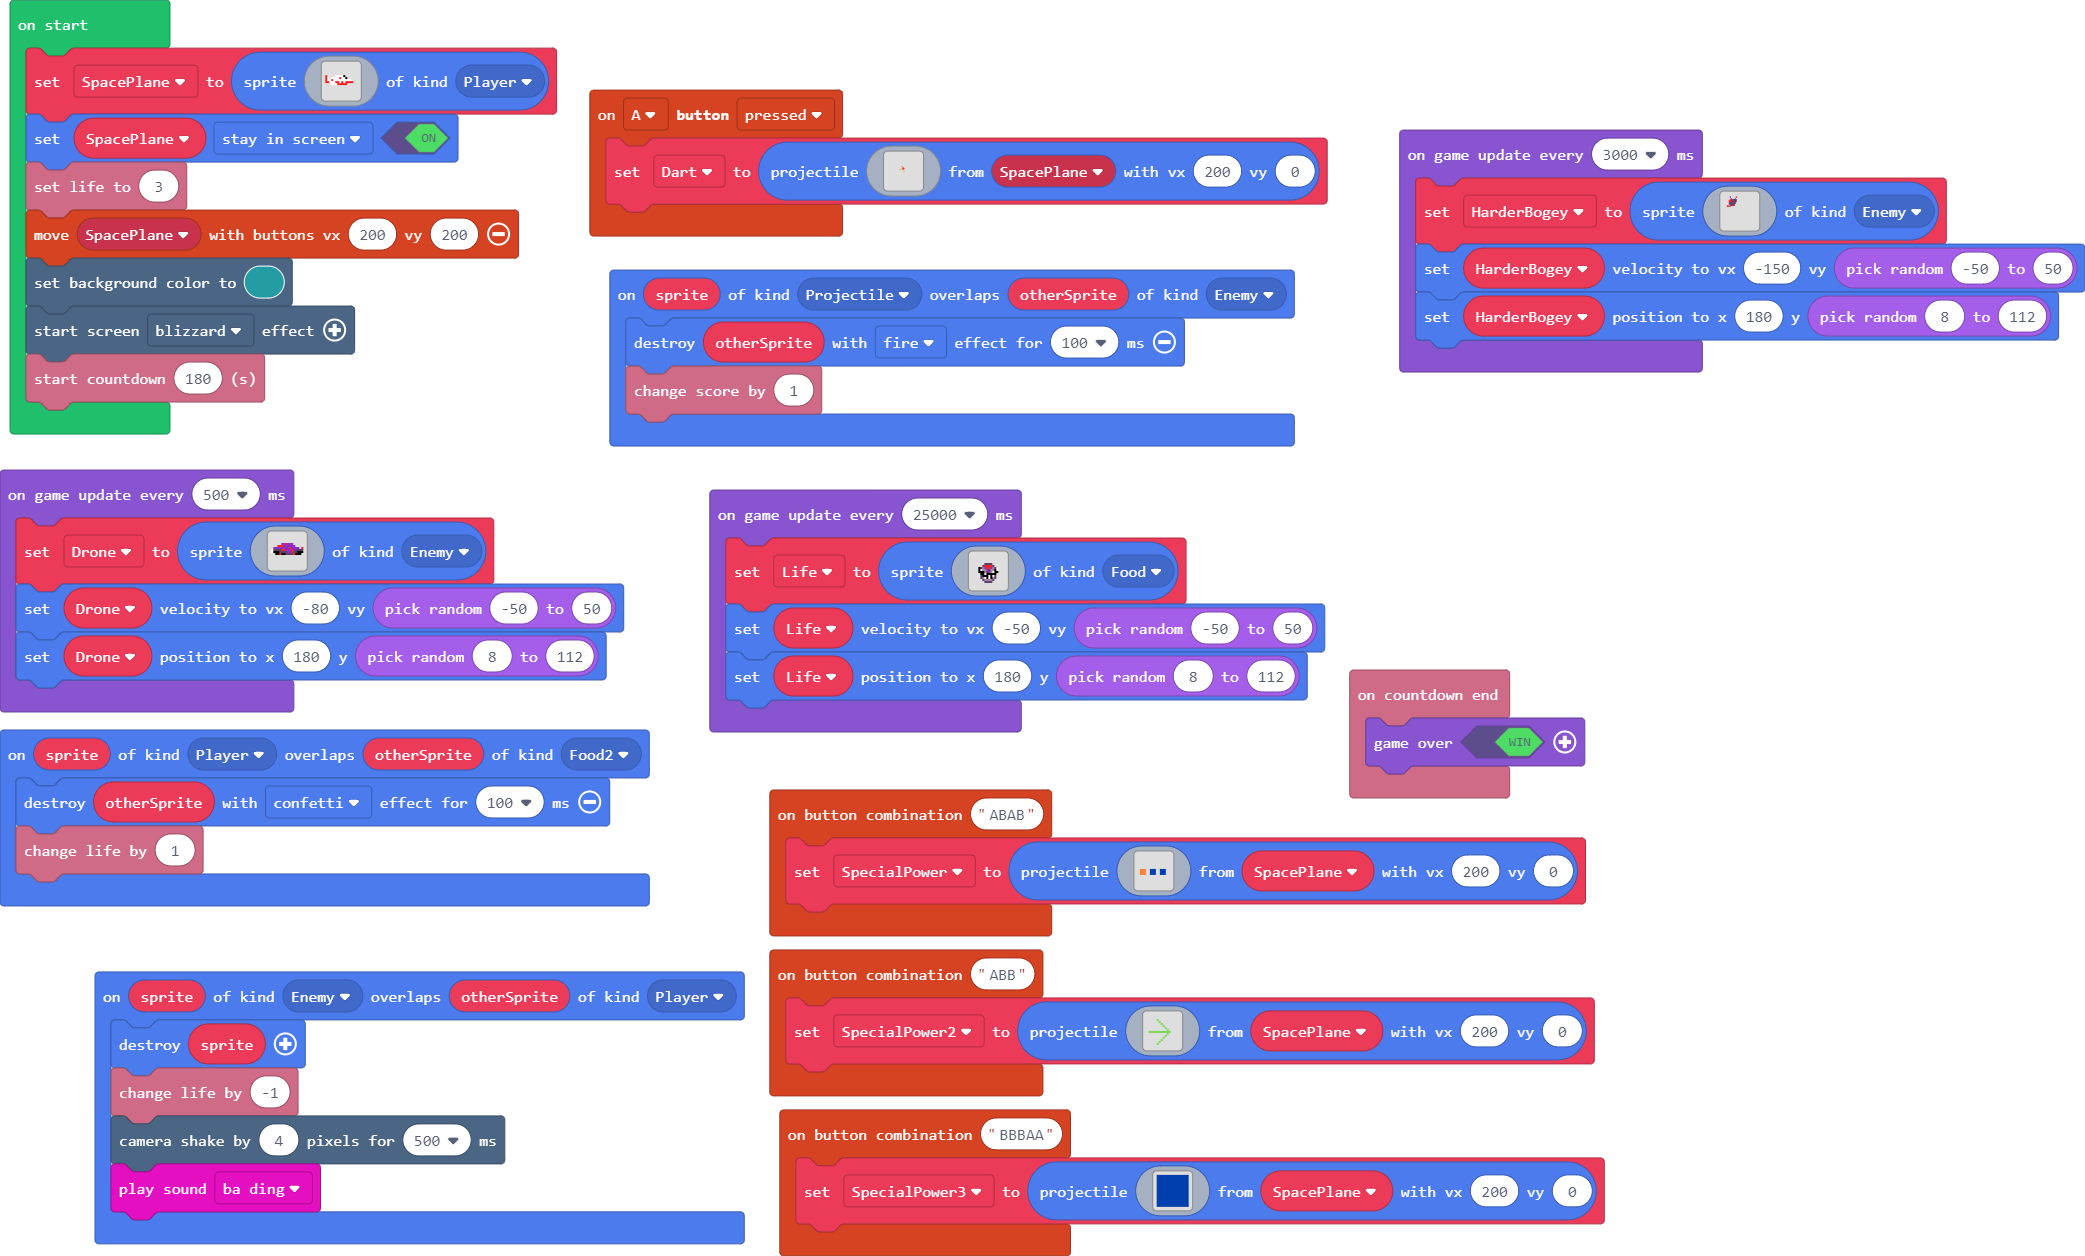
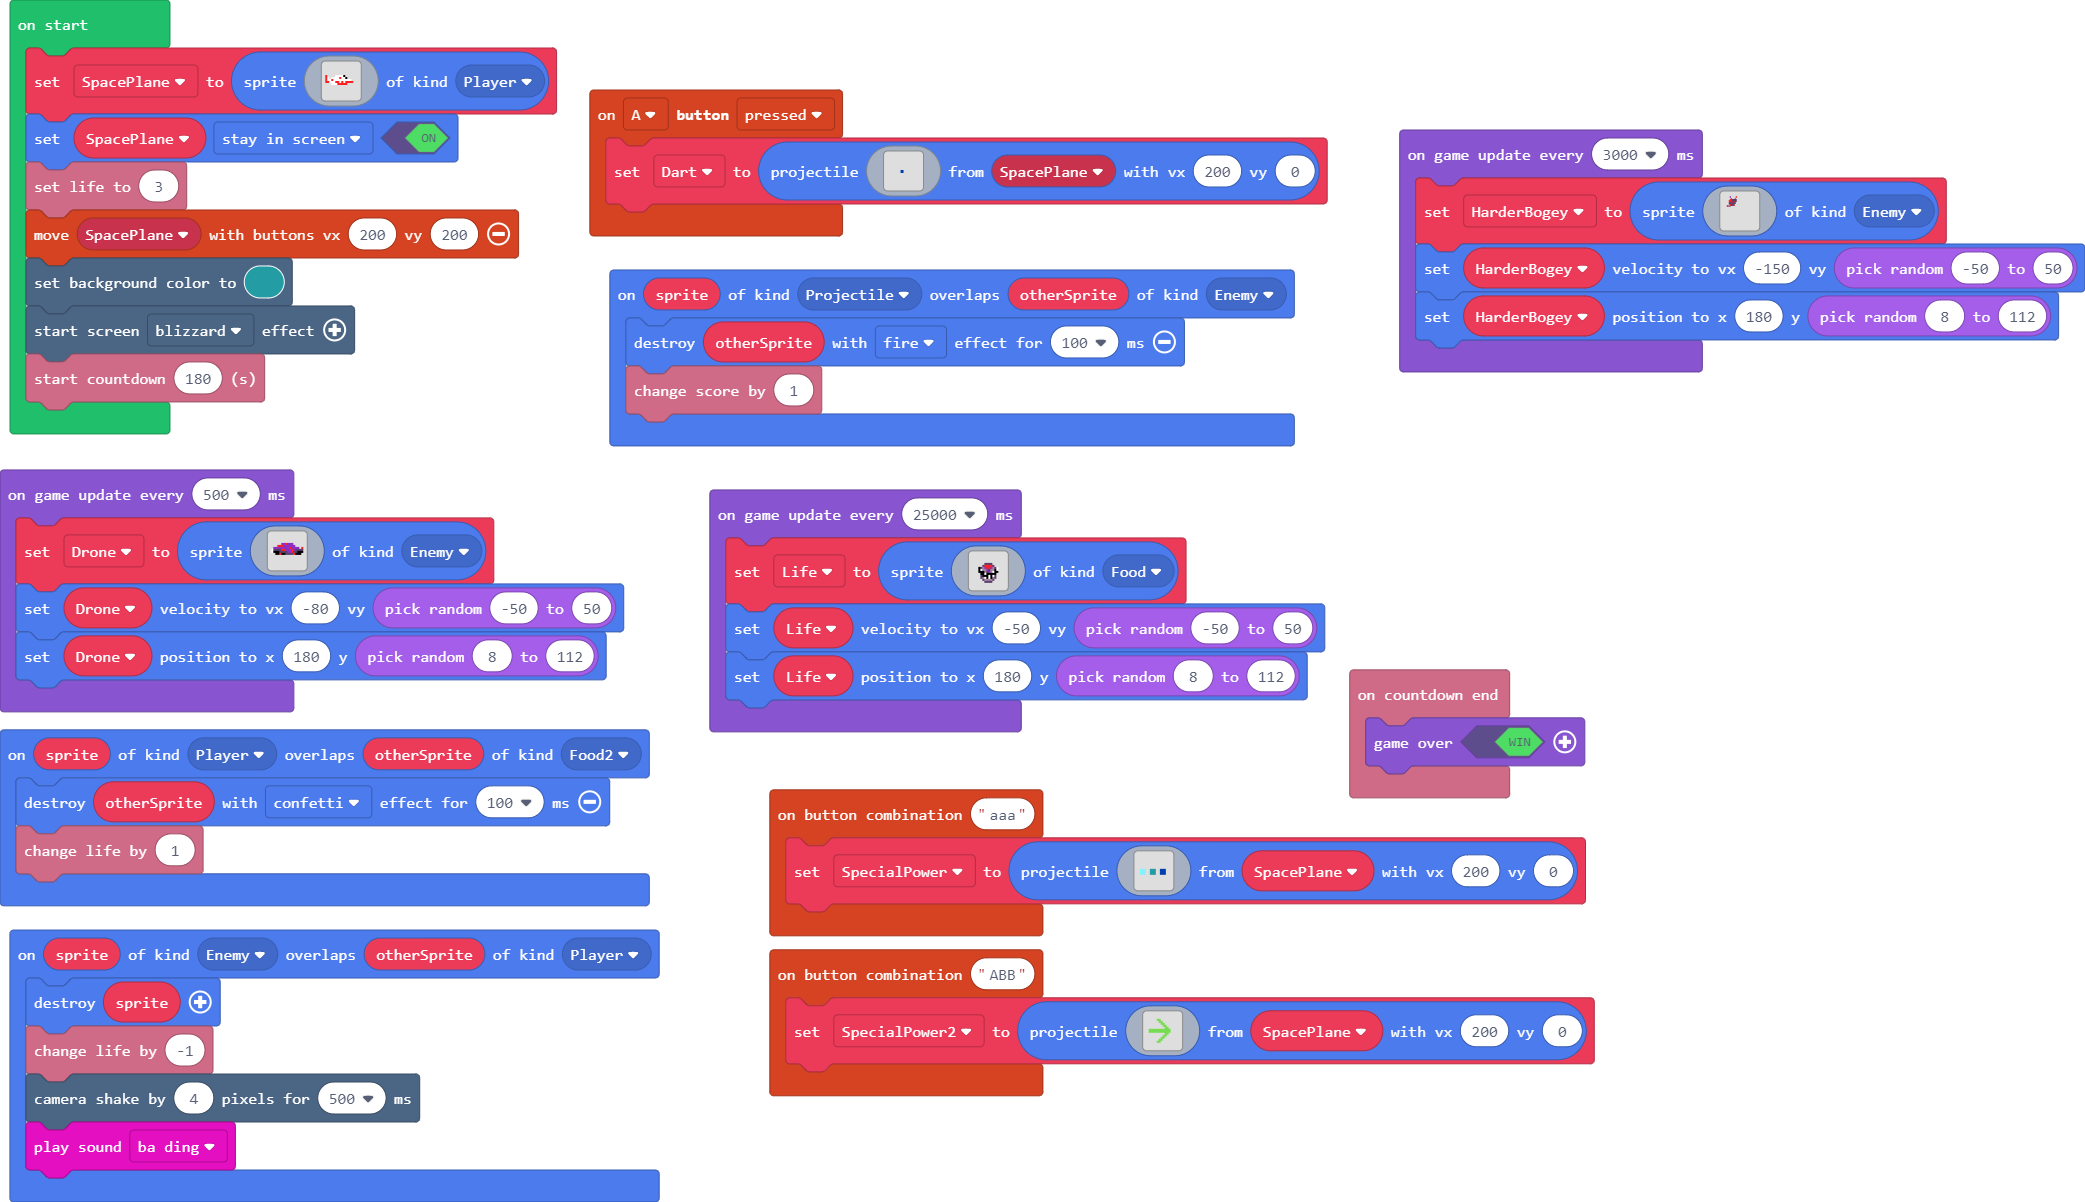
Update main.blocks, main.ts

diff --git a/main.ts b/main.ts
@@ -48,13 +48,13 @@ controller.A.onEvent(ControllerButtonEvent.Pressed, function () {
 . . . . . . . . . . . . . . . . . . . . . . . . . . . . . . . . 
 . . . . . . . . . . . . . . . . . . . . . . . . . . . . . . . . 
 . . . . . . . . . . . . . . . . . . . . . . . . . . . . . . . . 
-. . . . . . . . . . . . . . 4 . . . . . . . . . . . . . . . . . 
-. . . . . . . . . . . . . . . 2 . . . . . . . . . . . . . . . . 
-. . . . . . . . . . . . . . 4 2 2 . . . . . . . . . . . . . . . 
-. . . . . . . . . . . . 4 . . 2 . . . . . . . . . . . . . . . . 
 . . . . . . . . . . . . . . . . . . . . . . . . . . . . . . . . 
-. . . . . . . . . . . . . . . . 4 . . . . . . . . . . . . . . . 
 . . . . . . . . . . . . . . . . . . . . . . . . . . . . . . . . 
+. . . . . . . . . . . . . . . . . . . . . . . . . . . . . . . . 
+. . . . . . . . . . . . . . . . . . . . . . . . . . . . . . . . 
+. . . . . . . . . . . . . 8 8 8 . . . . . . . . . . . . . . . . 
+. . . . . . . . . . . . . 8 8 8 . . . . . . . . . . . . . . . . 
+. . . . . . . . . . . . . 8 8 8 . . . . . . . . . . . . . . . . 
 . . . . . . . . . . . . . . . . . . . . . . . . . . . . . . . . 
 . . . . . . . . . . . . . . . . . . . . . . . . . . . . . . . . 
 . . . . . . . . . . . . . . . . . . . . . . . . . . . . . . . . 
@@ -75,7 +75,10 @@ sprites.onOverlap(SpriteKindLegacy.Projectile, SpriteKindLegacy.Enemy, function 
     otherSprite.destroy(effects.fire, 100)
     info.changeScoreBy(1)
 })
-controller.combos.attachCombo("ABAB", function () {
+info.onCountdownEnd(function () {
+    game.over(true)
+})
+controller.combos.attachCombo("aaa", function () {
     SpecialPower = sprites.createProjectileFromSprite(img`
 . . . . . . . . . . . . . . . . 
 . . . . . . . . . . . . . . . . 
@@ -84,54 +87,15 @@ controller.combos.attachCombo("ABAB", function () {
 . . . . . . . . . . . . . . . . 
 . . . . . . . . . . . . . . . . 
 . . . . . . . . . . . . . . . . 
-. 4 4 4 . . 8 8 8 . . 8 8 8 . . 
-. 4 4 4 . . 8 8 8 . . 8 8 8 . . 
-. 4 4 4 . . 8 8 8 . . 8 8 8 . . 
+. 9 9 9 . . 6 6 6 . . 8 8 8 . . 
+. 9 9 9 . . 6 6 6 . . 8 8 8 . . 
+. 9 9 9 . . 6 6 6 . . 8 8 8 . . 
 . . . . . . . . . . . . . . . . 
 . . . . . . . . . . . . . . . . 
 . . . . . . . . . . . . . . . . 
 . . . . . . . . . . . . . . . . 
 . . . . . . . . . . . . . . . . 
 . . . . . . . . . . . . . . . . 
-`, SpacePlane, 200, 0)
-})
-info.onCountdownEnd(function () {
-    game.over(true)
-})
-controller.combos.attachCombo("BBBAA", function () {
-    SpecialPower3 = sprites.createProjectileFromSprite(img`
-8 8 8 8 8 8 8 8 8 8 8 8 8 8 8 8 8 8 8 8 8 8 8 8 8 8 8 8 8 8 8 8 
-8 8 8 8 8 8 8 8 8 8 8 8 8 8 8 8 8 8 8 8 8 8 8 8 8 8 8 8 8 8 8 8 
-8 8 8 8 8 8 8 8 8 8 8 8 8 8 8 8 8 8 8 8 8 8 8 8 8 8 8 8 8 8 8 8 
-8 8 8 8 8 8 8 8 8 8 8 8 8 8 8 8 8 8 8 8 8 8 8 8 8 8 8 8 8 8 8 8 
-8 8 8 8 8 8 8 8 8 8 8 8 8 8 8 8 8 8 8 8 8 8 8 8 8 8 8 8 8 8 8 8 
-8 8 8 8 8 8 8 8 8 8 8 8 8 8 8 8 8 8 8 8 8 8 8 8 8 8 8 8 8 8 8 8 
-8 8 8 8 8 8 8 8 8 8 8 8 8 8 8 8 8 8 8 8 8 8 8 8 8 8 8 8 8 8 8 8 
-8 8 8 8 8 8 8 8 8 8 8 8 8 8 8 8 8 8 8 8 8 8 8 8 8 8 8 8 8 8 8 8 
-8 8 8 8 8 8 8 8 8 8 8 8 8 8 8 8 8 8 8 8 8 8 8 8 8 8 8 8 8 8 8 8 
-8 8 8 8 8 8 8 8 8 8 8 8 8 8 8 8 8 8 8 8 8 8 8 8 8 8 8 8 8 8 8 8 
-8 8 8 8 8 8 8 8 8 8 8 8 8 8 8 8 8 8 8 8 8 8 8 8 8 8 8 8 8 8 8 8 
-8 8 8 8 8 8 8 8 8 8 8 8 8 8 8 8 8 8 8 8 8 8 8 8 8 8 8 8 8 8 8 8 
-8 8 8 8 8 8 8 8 8 8 8 8 8 8 8 8 8 8 8 8 8 8 8 8 8 8 8 8 8 8 8 8 
-8 8 8 8 8 8 8 8 8 8 8 8 8 8 8 8 8 8 8 8 8 8 8 8 8 8 8 8 8 8 8 8 
-8 8 8 8 8 8 8 8 8 8 8 8 8 8 8 8 8 8 8 8 8 8 8 8 8 8 8 8 8 8 8 8 
-8 8 8 8 8 8 8 8 8 8 8 8 8 8 8 8 8 8 8 8 8 8 8 8 8 8 8 8 8 8 8 8 
-8 8 8 8 8 8 8 8 8 8 8 8 8 8 8 8 8 8 8 8 8 8 8 8 8 8 8 8 8 8 8 8 
-8 8 8 8 8 8 8 8 8 8 8 8 8 8 8 8 8 8 8 8 8 8 8 8 8 8 8 8 8 8 8 8 
-8 8 8 8 8 8 8 8 8 8 8 8 8 8 8 8 8 8 8 8 8 8 8 8 8 8 8 8 8 8 8 8 
-8 8 8 8 8 8 8 8 8 8 8 8 8 8 8 8 8 8 8 8 8 8 8 8 8 8 8 8 8 8 8 8 
-8 8 8 8 8 8 8 8 8 8 8 8 8 8 8 8 8 8 8 8 8 8 8 8 8 8 8 8 8 8 8 8 
-8 8 8 8 8 8 8 8 8 8 8 8 8 8 8 8 8 8 8 8 8 8 8 8 8 8 8 8 8 8 8 8 
-8 8 8 8 8 8 8 8 8 8 8 8 8 8 8 8 8 8 8 8 8 8 8 8 8 8 8 8 8 8 8 8 
-8 8 8 8 8 8 8 8 8 8 8 8 8 8 8 8 8 8 8 8 8 8 8 8 8 8 8 8 8 8 8 8 
-8 8 8 8 8 8 8 8 8 8 8 8 8 8 8 8 8 8 8 8 8 8 8 8 8 8 8 8 8 8 8 8 
-8 8 8 8 8 8 8 8 8 8 8 8 8 8 8 8 8 8 8 8 8 8 8 8 8 8 8 8 8 8 8 8 
-8 8 8 8 8 8 8 8 8 8 8 8 8 8 8 8 8 8 8 8 8 8 8 8 8 8 8 8 8 8 8 8 
-8 8 8 8 8 8 8 8 8 8 8 8 8 8 8 8 8 8 8 8 8 8 8 8 8 8 8 8 8 8 8 8 
-8 8 8 8 8 8 8 8 8 8 8 8 8 8 8 8 8 8 8 8 8 8 8 8 8 8 8 8 8 8 8 8 
-8 8 8 8 8 8 8 8 8 8 8 8 8 8 8 8 8 8 8 8 8 8 8 8 8 8 8 8 8 8 8 8 
-8 8 8 8 8 8 8 8 8 8 8 8 8 8 8 8 8 8 8 8 8 8 8 8 8 8 8 8 8 8 8 8 
-8 8 8 8 8 8 8 8 8 8 8 8 8 8 8 8 8 8 8 8 8 8 8 8 8 8 8 8 8 8 8 8 
 `, SpacePlane, 200, 0)
 })
 sprites.onOverlap(SpriteKindLegacy.Enemy, SpriteKindLegacy.Player, function (sprite, otherSprite) {
@@ -144,19 +108,19 @@ controller.combos.attachCombo("ABB", function () {
     SpecialPower2 = sprites.createProjectileFromSprite(img`
 . . . . . . . . . . . . . . . . 
 . . . . . . . . . . . . . . . . 
-. . . . . 7 . . . . . . . . . . 
-. . . . . . 7 . . . . . . . . . 
-. . . . . . . 7 . . . . . . . . 
-. . . . . . . . 7 . . . . . . . 
-. . . . . . . . . 7 . . . . . . 
-. . . . . . . . . . 7 . . . . . 
+. . . . . 7 7 . . . . . . . . . 
+. . . . . . 7 7 . . . . . . . . 
+. . . . . . . 7 7 . . . . . . . 
+. . . . . . . . 7 7 . . . . . . 
+. . . . . . . . . 7 7 . . . . . 
 . 7 7 7 7 7 7 7 7 7 7 7 . . . . 
-. . . . . . . . . . 7 . . . . . 
-. . . . . . . . . 7 . . . . . . 
-. . . . . . . . 7 . . . . . . . 
-. . . . . . . 7 . . . . . . . . 
-. . . . . . 7 . . . . . . . . . 
-. . . . . 7 . . . . . . . . . . 
+. 7 7 7 7 7 7 7 7 7 7 7 . . . . 
+. . . . . . . . . 7 7 . . . . . 
+. . . . . . . . 7 7 . . . . . . 
+. . . . . . . 7 7 . . . . . . . 
+. . . . . . 7 7 . . . . . . . . 
+. . . . . 7 7 . . . . . . . . . 
+. . . . . . . . . . . . . . . . 
 . . . . . . . . . . . . . . . . 
 `, SpacePlane, 200, 0)
 })
@@ -164,7 +128,6 @@ let HarderBogey: Sprite = null
 let Life: Sprite = null
 let Drone: Sprite = null
 let SpecialPower2: Sprite = null
-let SpecialPower3: Sprite = null
 let SpecialPower: Sprite = null
 let Dart: Sprite = null
 let SpacePlane: Sprite = null
